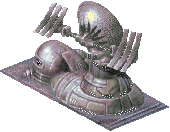
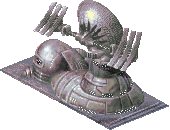
Some fixes to issue http://code.google.com/p/open-ig/issues/detail?id=6
Upgraded power plants on planets. Ecalep phased telescope image fixed.

diff --git a/open-ig/src/hu/openig/screens/ShipwalkScreen.java b/open-ig/src/hu/openig/screens/ShipwalkScreen.java
@@ -12,12 +12,14 @@ import hu.openig.core.Act;
 import hu.openig.core.SwappableRenderer;
 import hu.openig.model.WalkPosition;
 import hu.openig.model.WalkTransition;
+import hu.openig.render.RenderTools;
 import hu.openig.render.TextRenderer;
 import hu.openig.ui.UIMouse;
 import hu.openig.ui.UIMouse.Button;
 
 import java.awt.AlphaComposite;
 import java.awt.Color;
+import java.awt.Composite;
 import java.awt.Graphics2D;
 import java.awt.Rectangle;
 import java.awt.RenderingHints;
@@ -36,6 +38,8 @@ public class ShipwalkScreen extends ScreenBase implements SwappableRenderer {
 	public WalkPosition position;
 	/** The next position after the transition. Might be null because of a special output. */
 	public WalkPosition next;
+	/** The next position's id. */
+	public String nextId;
 	/** Is video playing. */
 	boolean videoMode;
 	/** The video front buffer. */
@@ -49,12 +53,12 @@ public class ShipwalkScreen extends ScreenBase implements SwappableRenderer {
 	/** The transition video player. */
 	MediaPlayer video;
 	/** The rendering origin. */
-	final Rectangle origin = new Rectangle();
+	final Rectangle origin = new Rectangle(0, 0, 640, 442);
 	/** The action to call when the transition ends. */
 	public Act onCompleted;
 	@Override
 	public void onResize() {
-		origin.setBounds((commons.control.getInnerWidth() - 640) / 2, 20 + (commons.control.getInnerHeight() - 38 - 442) / 2, 640, 442);
+		RenderTools.centerScreen(origin, width, height, true);
 	}
 
 	@Override
@@ -112,6 +116,7 @@ public class ShipwalkScreen extends ScreenBase implements SwappableRenderer {
 						for (WalkTransition wt : position.transitions) {
 							if (wt.area.contains(e.x - origin.x, e.y - origin.y)) {
 								next = position.ship.positions.get(wt.to);
+								nextId = wt.to;
 								if (!wt.media.isEmpty()) {
 									startTransition(wt.media);
 								} else {
@@ -151,7 +156,7 @@ public class ShipwalkScreen extends ScreenBase implements SwappableRenderer {
 		if (videoMode) {
 			swapLock.lock();
 			try {
-				if (frontBuffer != null) {
+				if (frontBuffer != null && position != null) {
 					g2.setRenderingHint(RenderingHints.KEY_INTERPOLATION, RenderingHints.VALUE_INTERPOLATION_BILINEAR);
 					g2.drawImage(frontBuffer, 0, 0, position.picture.getWidth(), position.picture.getHeight(), null);
 				}
@@ -163,6 +168,7 @@ public class ShipwalkScreen extends ScreenBase implements SwappableRenderer {
 			if (position != null) {
 				g2.drawImage(position.picture, 0, 0, null);
 				
+				Composite save0 = g2.getComposite();
 				g2.setComposite(AlphaComposite.SrcOver.derive(0.5f));
 				g2.setColor(Color.WHITE);
 				for (WalkTransition wt : position.transitions) {
@@ -176,7 +182,11 @@ public class ShipwalkScreen extends ScreenBase implements SwappableRenderer {
 						commons.text().paintTo(g2, rect.x + (rect.width - w) / 2, rect.y + (rect.height - 14) / 2, 14, TextRenderer.RED, pointerTransition.label);
 					}
 				}
+				g2.setComposite(save0);
 			}
+		}
+		if (position != null) {
+			g2.translate(-origin.x, -origin.y);
 		}
 	}
 	@Override
@@ -239,9 +249,10 @@ public class ShipwalkScreen extends ScreenBase implements SwappableRenderer {
 	 * Set the current position to the next position.
 	 */
 	protected void setNextPosition() {
-		position = next;
-		if (position != null && position.id.startsWith("*")) {
-			commons.switchScreen(position.id);
+		if (next == null && nextId.startsWith("*")) {
+			commons.switchScreen(nextId);
+		} else {
+			position = next;
 		}
 	}
 }

diff --git a/open-ig/src/hu/openig/ui/UIImageButton.java b/open-ig/src/hu/openig/ui/UIImageButton.java
@@ -48,6 +48,8 @@ public class UIImageButton extends UIComponent {
 	protected int holdDelay = -1;
 	/** The timer to send pressed events periodically. */
 	protected Timer holdTimer;
+	/** The timer fired already. */
+	protected boolean timerFired;
 	/** Is the mouse pressed down on this component. */
 	protected boolean down;
 	/**
@@ -65,9 +67,11 @@ public class UIImageButton extends UIComponent {
 		this.holdTimer = new Timer(100, new Act() {
 			@Override
 			public void act() {
-				doClick();
 				if (holdDelay < 0 || !enabled || !visible) {
 					holdTimer.stop();
+				} else {
+					timerFired = true;
+					doClick();
 				}
 			}
 		});
@@ -89,9 +93,11 @@ public class UIImageButton extends UIComponent {
 		this.holdTimer = new Timer(100, new Act() {
 			@Override
 			public void act() {
-				doClick();
 				if (holdDelay < 0 || !enabled || !visible) {
 					holdTimer.stop();
+				} else {
+					timerFired = true;
+					doClick();
 				}
 			}
 		});
@@ -143,6 +149,7 @@ public class UIImageButton extends UIComponent {
 		case DOWN:
 			down = true;
 			if (holdDelay >= 0) {
+				timerFired = false;
 				holdTimer.start();
 			}
 			if (onPress != null) {
@@ -153,12 +160,16 @@ public class UIImageButton extends UIComponent {
 			if (down) {
 				down = false;
 				holdTimer.stop();
-				doClick();
+				if (!timerFired) {
+					doClick();
+				}
+				timerFired = false;
 			}
 			return true;
 		case LEAVE:
 			down = false;
 			holdTimer.stop();
+			timerFired = false;
 			return true;
 		case ENTER:
 			return true;

diff --git a/open-ig/src/hu/openig/screens/PlanetScreen.java b/open-ig/src/hu/openig/screens/PlanetScreen.java
@@ -774,7 +774,7 @@ public class PlanetScreen extends ScreenBase {
 							ex += commons.colony().worker[0].getWidth();
 						}
 						if (b.repairing) {
-							g2.drawImage(commons.colony().repair[(animation / 3)], ex, ey, null);
+							g2.drawImage(commons.colony().repair[(animation % 3)], ex, ey, null);
 							ex += commons.colony().repair[0].getWidth();
 						}
 					} else {
@@ -1130,6 +1130,7 @@ public class PlanetScreen extends ScreenBase {
 			commons.world.player.currentBuilding = b.type;
 			
 			Set<UIComponent> tohide = new HashSet<UIComponent>(Arrays.asList(
+					buildingInfoPanel.undamaged,
 					buildingInfoPanel.damaged,		
 					buildingInfoPanel.repairing,		
 					buildingInfoPanel.constructing,		
@@ -1466,11 +1467,11 @@ public class PlanetScreen extends ScreenBase {
 			constructing.location(8, 122);
 
 			
-			progressUpper = new UILabel("-", 7, commons.text());
+			progressUpper = new UILabel("-", 10, commons.text());
 			progressUpper.bounds(8 + 96, 98 + 3, 28, 10);
 			progressUpper.visible(false);
 			
-			progressLower = new UILabel("-", 7, commons.text());
+			progressLower = new UILabel("-", 10, commons.text());
 			progressLower.bounds(8 + 96, 122 + 3, 28, 10);
 			progressLower.visible(false);
 			

diff --git a/open-ig/src/hu/openig/model/Planet.java b/open-ig/src/hu/openig/model/Planet.java
@@ -184,19 +184,19 @@ public class Planet {
 		}
 		
 		problems.clear();
-		if (Math.abs(result.workerDemand) > population) {
+		if (Math.abs(result.workerDemand) > population * 2) {
 			problems.add(PlanetProblems.WORKFORCE);
 		}
-		if (Math.abs(result.energyDemand) > Math.abs(result.energyAvailable)) {
+		if (Math.abs(result.energyDemand) > Math.abs(result.energyAvailable) * 2) {
 			problems.add(PlanetProblems.ENERGY);
 		}
-		if (Math.abs(population) > Math.abs(result.foodAvailable)) {
+		if (Math.abs(population) > Math.abs(result.foodAvailable) * 2) {
 			problems.add(PlanetProblems.FOOD);
 		}
-		if (Math.abs(population) > Math.abs(result.hospitalAvailable)) {
+		if (Math.abs(population) > Math.abs(result.hospitalAvailable) * 2) {
 			problems.add(PlanetProblems.HOSPITAL);
 		}
-		if (Math.abs(population) > Math.abs(result.houseAvailable)) {
+		if (Math.abs(population) > Math.abs(result.houseAvailable) * 2) {
 			problems.add(PlanetProblems.HOUSING);
 		}
 		

diff --git a/open-ig/src/hu/openig/screens/AchievementsScreen.java b/open-ig/src/hu/openig/screens/AchievementsScreen.java
@@ -20,7 +20,6 @@ import java.awt.Shape;
 import java.awt.image.BufferedImage;
 import java.util.ArrayList;
 import java.util.List;
-import java.util.Random;
 
 /**
  * The achievements and statistics listing screen.
@@ -453,10 +452,10 @@ public class AchievementsScreen extends ScreenBase {
 		achievements.add(new AchievementEntry("achievement.grand_admiral", "achievement.grand_admiral.desc", false));
 		achievements.add(new AchievementEntry("achievement.influenza", "achievement.influenza.desc", false));
 		
-		Random rnd = new Random();
-		for (AchievementEntry ae : achievements) {
-			ae.enabled = rnd.nextBoolean();
-		}
+//		Random rnd = new Random();
+//		for (AchievementEntry ae : achievements) {
+//			ae.enabled = rnd.nextBoolean();
+//		}
 		
 		statistics.add(new StatisticsEntry("statistics.total_gametime", "1 23:50.00"));
 		statistics.add(new StatisticsEntry("statistics.total_ingame_time", "50-03-01 12:50.00"));

diff --git a/open-ig/src/hu/openig/screens/TechnologyVideoRenderer.java b/open-ig/src/hu/openig/screens/TechnologyVideoRenderer.java
@@ -16,7 +16,6 @@ import java.awt.image.BufferedImage;
 import java.io.BufferedInputStream;
 import java.io.DataInputStream;
 import java.io.IOException;
-import java.lang.reflect.InvocationTargetException;
 import java.util.ArrayList;
 import java.util.List;
 import java.util.concurrent.Callable;
@@ -135,7 +134,7 @@ public class TechnologyVideoRenderer {
 							starttime = System.nanoTime();
 						}
 						
-						SwingUtilities.invokeAndWait(new Runnable() {
+						SwingUtilities.invokeLater(new Runnable() {
 							@Override
 							public void run() {
 								if (!stopped) {
@@ -150,10 +149,6 @@ public class TechnologyVideoRenderer {
 		       			frameCount++;
 					}
 				}
-			} catch (InvocationTargetException e) {
-				e.printStackTrace();
-			} catch (InterruptedException e) {
-				e.printStackTrace();
 			} finally {
 				try { in.close(); } catch (IOException ex) {  }
 			}

diff --git a/open-ig/src/hu/openig/screens/GameWindow.java b/open-ig/src/hu/openig/screens/GameWindow.java
@@ -577,14 +577,16 @@ public class GameWindow extends JFrame implements GameControls {
 					displaySecondary(Screens.INFORMATION); // TODO information subscreens
 					break;
 				case KeyEvent.VK_F8:
-					displaySecondary(Screens.DIPLOMACY);
-					break;
-				case KeyEvent.VK_F9:
 					displaySecondary(Screens.DATABASE);
 					break;
-				case KeyEvent.VK_F10:
+				case KeyEvent.VK_F9:
 					if (commons.world.level > 1) {
 						displaySecondary(Screens.BAR);
+					}
+					break;
+				case KeyEvent.VK_F10:
+					if (commons.world.level > 4) {
+						displaySecondary(Screens.DIPLOMACY);
 					}
 					break;
 				case KeyEvent.VK_F11:

diff --git a/open-ig/src/hu/openig/screens/CommonResources.java b/open-ig/src/hu/openig/screens/CommonResources.java
@@ -322,13 +322,13 @@ public class CommonResources {
 			control.displaySecondary(Screens.INFORMATION);
 		} else
 		if ("*database".equals(to)) {
-			control.displayPrimary(Screens.DATABASE);
+			control.displaySecondary(Screens.DATABASE);
 		} else
 		if ("*bar".equals(to)) {
-			control.displayPrimary(Screens.BAR);
+			control.displaySecondary(Screens.BAR);
 		} else
 		if ("*diplomacy".equals(to)) {
-			control.displayPrimary(Screens.DIPLOMACY);
+			control.displaySecondary(Screens.DIPLOMACY);
 		}
 
 	}

diff --git a/open-ig/src/hu/openig/render/RenderTools.java b/open-ig/src/hu/openig/render/RenderTools.java
@@ -85,7 +85,7 @@ public final class RenderTools {
 			BufferedImage fimg = holes((float)Math.min(1.0, alpha * 2));
 			g2.setPaint(new TexturePaint(fimg, new Rectangle(panel.x, panel.y, fimg.getWidth(), fimg.getHeight())));
 		} else {
-			g2.getComposite();
+			c = g2.getComposite();
 			g2.setComposite(AlphaComposite.SrcOver.derive(alpha));
 			g2.setColor(Color.BLACK);
 			

diff --git a/open-ig/src/hu/openig/screens/StarmapScreen.java b/open-ig/src/hu/openig/screens/StarmapScreen.java
@@ -155,8 +155,7 @@ public class StarmapScreen extends ScreenBase {
 	 */
 	@Override
 	public void onResize() {
-		// TODO Auto-generated method stub
-
+		computeRectangles();
 	}
 
 	/* (non-Javadoc)
